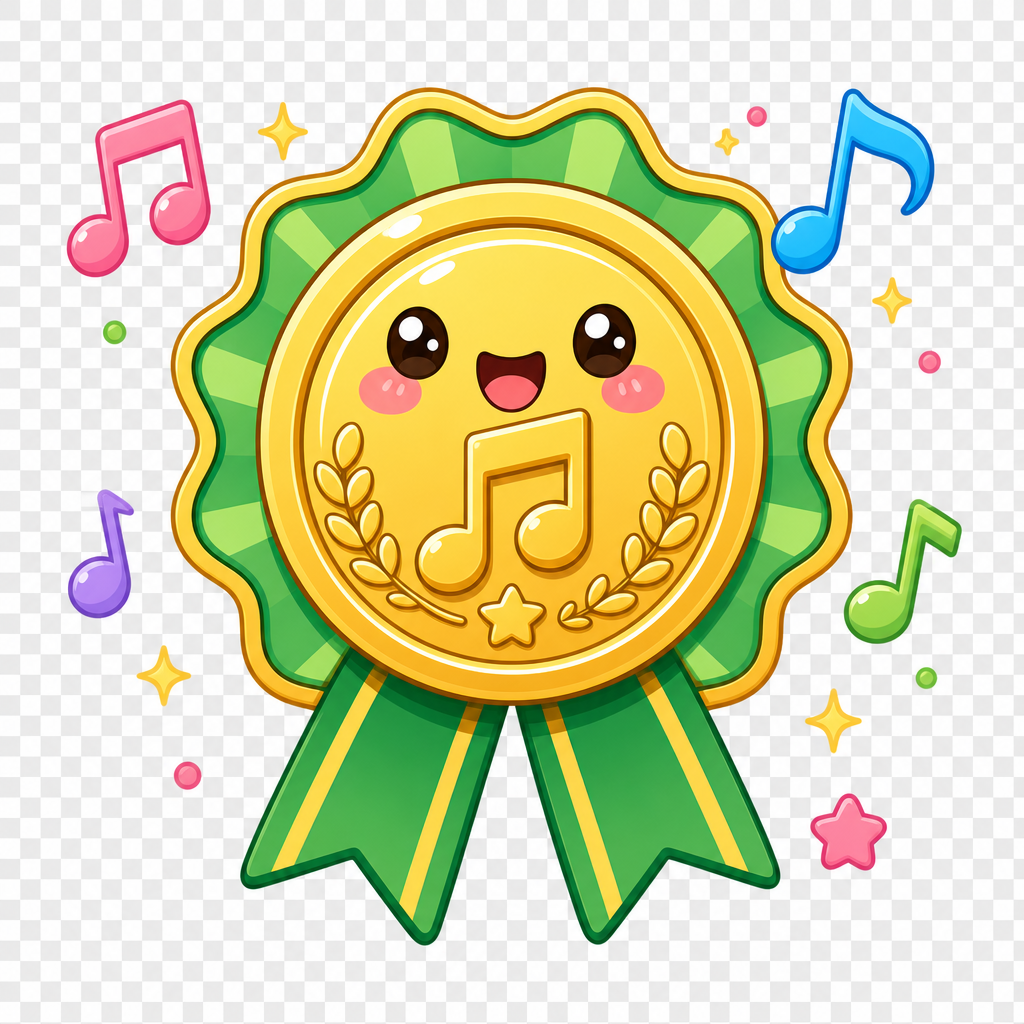
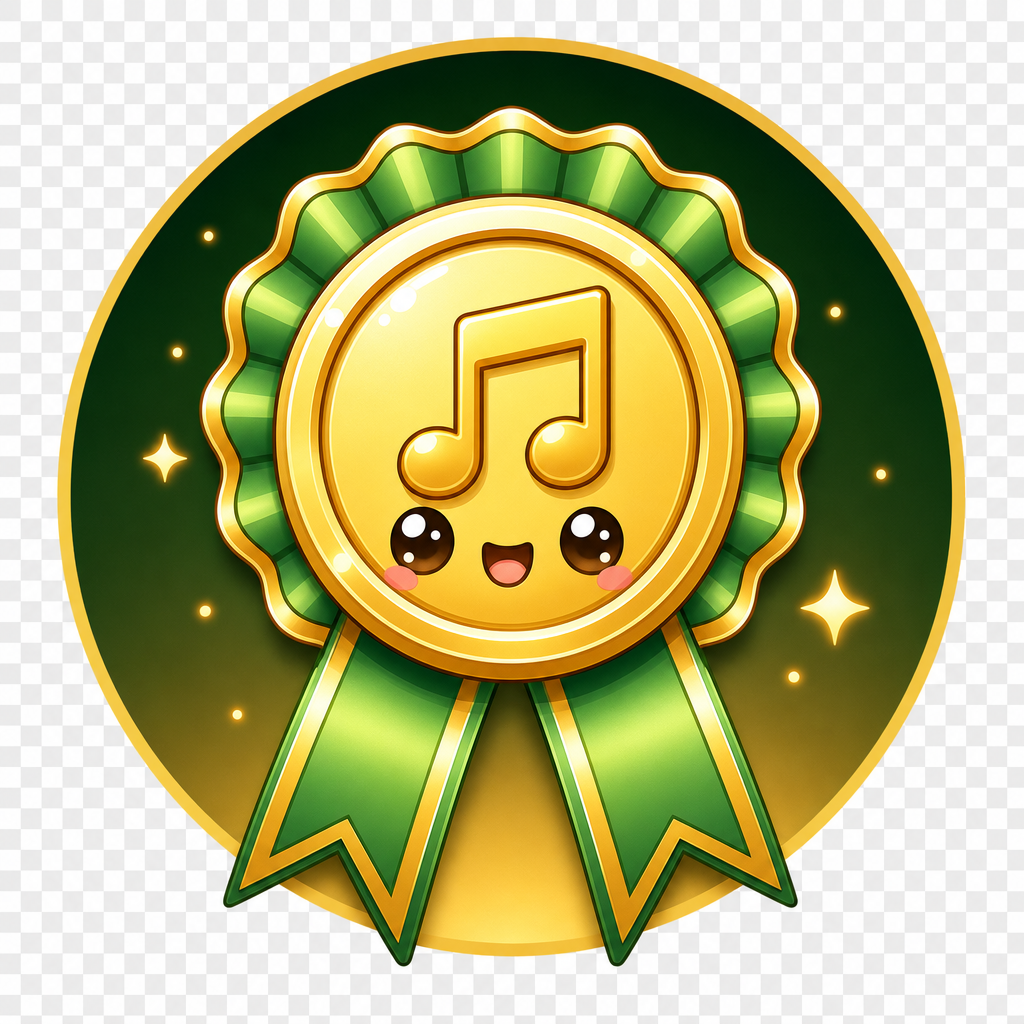
fix(kid-ui): badge去圆形裁切+重新生成无文字纯图标版

diff --git a/src/kid_app/static/style.css b/src/kid_app/static/style.css
@@ -151,18 +151,16 @@ body {
   margin: 8px 10px;
 }
 
-/* 徽章图片：圆形裁切，阴影 */
+/* 徽章图片：无圆形裁切，保留原始比例 */
 .badge-img {
   width: 80px;
   height: 80px;
-  border-radius: 50%;
-  object-fit: cover;
-  box-shadow: 0 3px 10px rgba(0,0,0,0.15);
-  transition: transform 0.2s, box-shadow 0.2s;
+  object-fit: contain;
+  filter: drop-shadow(0 2px 6px rgba(0,0,0,0.15));
+  transition: transform 0.2s;
 }
 .badge-img:hover {
   transform: scale(1.08);
-  box-shadow: 0 6px 18px rgba(0,0,0,0.2);
 }
 
 /* 徽章文字标签 */
